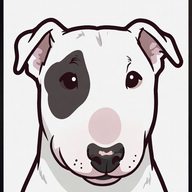
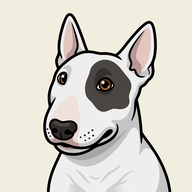
Add files via upload
Mobile-only storage, new bull terrier icon

diff --git a/js/app.js b/js/app.js
@@ -77,7 +77,11 @@ function applyStateToForm() {
 }
 
 function init() {
-  if (activeDogId) {
+  if (!canUseStorage()) {
+    appData = emptyData();
+    activeTab = 'quick';
+    activeDogId = null;
+  } else if (activeDogId) {
     const dog = getDog(appData, activeDogId);
     if (dog) {
       state = applyDogToState(dog);
@@ -92,9 +96,18 @@ function init() {
   applyStateToForm();
   bindEvents();
   calculate();
+  setupMobileStorageBanner();
   setupOfflineBanner();
   setupServiceWorkerUpdate();
   applyCollapsedState();
+}
+
+function setupMobileStorageBanner() {
+  const banner = document.getElementById('mobile-storage-banner');
+  const privacy = document.getElementById('storage-privacy-note');
+  const storageOk = canUseStorage();
+  if (banner) banner.classList.toggle('show', !storageOk);
+  if (privacy) privacy.classList.toggle('show', storageOk);
 }
 
 function bindEvents() {
@@ -135,13 +148,13 @@ function onAgeChange() {
 }
 
 function scheduleAutoSave() {
-  if (activeTab !== 'dog' || !activeDogId) return;
+  if (!canUseStorage() || activeTab !== 'dog' || !activeDogId) return;
   clearTimeout(saveTimer);
   saveTimer = setTimeout(saveCurrentDog, 500);
 }
 
 function saveCurrentDog() {
-  if (!activeDogId) return;
+  if (!canUseStorage() || !activeDogId) return;
   readFormToState();
   updateDog(appData, activeDogId, dogSnapshotFromUI(state));
   showToast('Сохранено');
@@ -151,12 +164,13 @@ function renderTabs() {
   const bar = document.getElementById('dog-tabs');
   let html = `<button class="tab-btn ${activeTab === 'quick' ? 'active' : ''}" data-tab="quick">⚡ Быстрый</button>`;
 
-  appData.dogs.forEach(dog => {
-    const active = activeTab === 'dog' && activeDogId === dog.id;
-    html += `<button class="tab-btn ${active ? 'active' : ''}" data-tab="dog" data-dog-id="${dog.id}">🐕 ${escapeHtml(dog.name)}</button>`;
-  });
-
-  html += `<button class="tab-btn tab-add" data-action="add-dog" title="Добавить собаку">+</button>`;
+  if (canUseStorage()) {
+    appData.dogs.forEach(dog => {
+      const active = activeTab === 'dog' && activeDogId === dog.id;
+      html += `<button class="tab-btn ${active ? 'active' : ''}" data-tab="dog" data-dog-id="${dog.id}">🐕 ${escapeHtml(dog.name)}</button>`;
+    });
+    html += `<button class="tab-btn tab-add" data-action="add-dog" title="Добавить собаку">+</button>`;
+  }
   bar.innerHTML = html;
 
   bar.querySelectorAll('.tab-btn').forEach(btn => {
@@ -171,6 +185,7 @@ function renderTabs() {
 }
 
 function switchTab(tab, dogId) {
+  if (!canUseStorage() && tab === 'dog') return;
   if (activeTab === 'dog' && activeDogId) {
     clearTimeout(saveTimer);
     readFormToState();
@@ -199,12 +214,22 @@ function updateDogActions() {
   const dogActions = document.getElementById('dog-actions');
   const purchaseCard = document.getElementById('purchase-card');
   const purchaseHint = document.getElementById('purchase-hint');
+  const storageOk = canUseStorage();
+
+  if (!storageOk) {
+    quickActions.style.display = 'none';
+    dogActions.style.display = 'none';
+    purchaseCard.style.display = 'none';
+    purchaseHint.style.display = 'none';
+    return;
+  }
 
   if (activeTab === 'quick') {
     quickActions.style.display = 'flex';
     dogActions.style.display = 'none';
     purchaseCard.style.display = 'none';
     purchaseHint.style.display = 'block';
+    purchaseHint.textContent = 'Сохраните собаку, чтобы вести историю покупок';
   } else {
     quickActions.style.display = 'none';
     dogActions.style.display = 'flex';
@@ -214,6 +239,10 @@ function updateDogActions() {
 }
 
 function openSaveDogModal() {
+  if (!canUseStorage()) {
+    showToast('Сохранение только на телефоне');
+    return;
+  }
   readFormToState();
   document.getElementById('new-dog-name').value = '';
   openModal('save-dog-modal');
@@ -221,9 +250,11 @@ function openSaveDogModal() {
 }
 
 function confirmSaveDog() {
+  if (!canUseStorage()) return;
   const name = document.getElementById('new-dog-name').value;
   readFormToState();
-  createDog(appData, name, dogSnapshotFromUI(state));
+  const dog = createDog(appData, name, dogSnapshotFromUI(state));
+  if (!dog) return;
   activeTab = 'dog';
   activeDogId = appData.activeDogId;
   closeModal('save-dog-modal');
@@ -565,7 +596,7 @@ function renderPurchaseSection() {
 }
 
 function addPurchaseFromForm() {
-  if (!activeDogId) return;
+  if (!canUseStorage() || !activeDogId) return;
 
   const date = document.getElementById('purchase-date').value;
   const componentId = document.getElementById('purchase-component').value;

diff --git a/js/storage.js b/js/storage.js
@@ -1,6 +1,18 @@
 const STORAGE_KEY = 'dogPaikaData';
 const DATA_VERSION = 1;
 
+function isMobileStorageAllowed() {
+  const standalone = window.matchMedia('(display-mode: standalone)').matches
+    || window.navigator.standalone === true;
+  const mobileUA = /Android|iPhone|iPad|iPod|Mobile|webOS|BlackBerry|IEMobile|Opera Mini/i.test(navigator.userAgent);
+  const narrowScreen = window.matchMedia('(max-width: 768px)').matches;
+  return standalone || mobileUA || narrowScreen;
+}
+
+function canUseStorage() {
+  return isMobileStorageAllowed();
+}
+
 function generateId() {
   return crypto.randomUUID ? crypto.randomUUID() : 'id-' + Date.now() + '-' + Math.random().toString(36).slice(2, 9);
 }
@@ -16,6 +28,7 @@ function emptyData() {
 }
 
 function loadData() {
+  if (!canUseStorage()) return emptyData();
   try {
     const raw = localStorage.getItem(STORAGE_KEY);
     if (!raw) return emptyData();
@@ -34,6 +47,7 @@ function loadData() {
 }
 
 function saveData(data) {
+  if (!canUseStorage()) return false;
   try {
     localStorage.setItem(STORAGE_KEY, JSON.stringify(data));
     return true;
@@ -47,6 +61,7 @@ function getDog(data, id) {
 }
 
 function createDog(data, name, snapshot) {
+  if (!canUseStorage()) return null;
   const now = new Date().toISOString();
   const dog = {
     id: generateId(),
@@ -66,6 +81,7 @@ function createDog(data, name, snapshot) {
 }
 
 function updateDog(data, id, patch) {
+  if (!canUseStorage()) return null;
   const dog = getDog(data, id);
   if (!dog) return null;
   Object.assign(dog, patch, { updatedAt: new Date().toISOString() });
@@ -74,6 +90,7 @@ function updateDog(data, id, patch) {
 }
 
 function deleteDog(data, id) {
+  if (!canUseStorage()) return;
   data.dogs = data.dogs.filter(d => d.id !== id);
   data.purchases = data.purchases.filter(p => p.dogId !== id);
   if (data.activeDogId === id) {
@@ -87,6 +104,7 @@ function renameDog(data, id, name) {
 }
 
 function addPurchase(data, dogId, purchase) {
+  if (!canUseStorage()) return null;
   const entry = {
     id: generateId(),
     dogId,
@@ -106,6 +124,7 @@ function addPurchase(data, dogId, purchase) {
 }
 
 function deletePurchase(data, purchaseId) {
+  if (!canUseStorage()) return;
   data.purchases = data.purchases.filter(p => p.id !== purchaseId);
   saveData(data);
 }

diff --git a/index.html b/index.html
@@ -27,7 +27,7 @@
   h1 { text-align: center; margin-bottom: 8px; font-size: 24px; }
   .subtitle { text-align: center; color: #888; margin-bottom: 16px; font-size: 13px; }
 
-  .offline-banner, .update-banner {
+  .offline-banner, .update-banner, .mobile-storage-banner {
     display: none;
     text-align: center;
     padding: 8px 12px;
@@ -36,6 +36,17 @@
     margin-bottom: 12px;
   }
   .offline-banner.show { display: block; background: #fff3e0; color: #e65100; }
+  .mobile-storage-banner.show { display: block; background: #f3e5f5; color: #6a1b9a; }
+  .storage-privacy-note {
+    display: none;
+    text-align: center;
+    font-size: 12px;
+    color: #888;
+    margin-bottom: 12px;
+    padding: 0 8px;
+    line-height: 1.4;
+  }
+  .storage-privacy-note.show { display: block; }
   .update-banner.show { display: flex; align-items: center; justify-content: center; gap: 12px; flex-wrap: wrap; background: #e3f2fd; color: #1565c0; }
   .update-banner button {
     background: #1565c0; color: #fff; border: none; padding: 6px 14px; border-radius: 6px; font-size: 13px; cursor: pointer; min-height: 44px;
@@ -217,7 +228,9 @@
 </head>
 <body>
 <div class="container">
-  <div id="offline-banner" class="offline-banner">📡 Работаем оффлайн — данные сохранены на устройстве</div>
+  <div id="mobile-storage-banner" class="mobile-storage-banner">💻 На компьютере доступен только быстрый расчёт. Сохранение собак — на телефоне.</div>
+  <div id="storage-privacy-note" class="storage-privacy-note">🔒 Ваши собаки хранятся только на этом телефоне — другие пользователи по ссылке их не видят</div>
+  <div id="offline-banner" class="offline-banner">📡 Работаем оффлайн — данные сохранены на этом устройстве</div>
   <div id="update-banner" class="update-banner">
     <span>Доступно обновление приложения</span>
     <button id="btn-update-app" type="button">Обновить</button>

diff --git a/sw.js b/sw.js
@@ -1,4 +1,4 @@
-const CACHE_NAME = 'dog-pwa-v2';
+const CACHE_NAME = 'dog-pwa-v4';
 const urlsToCache = [
   './',
   './index.html',
